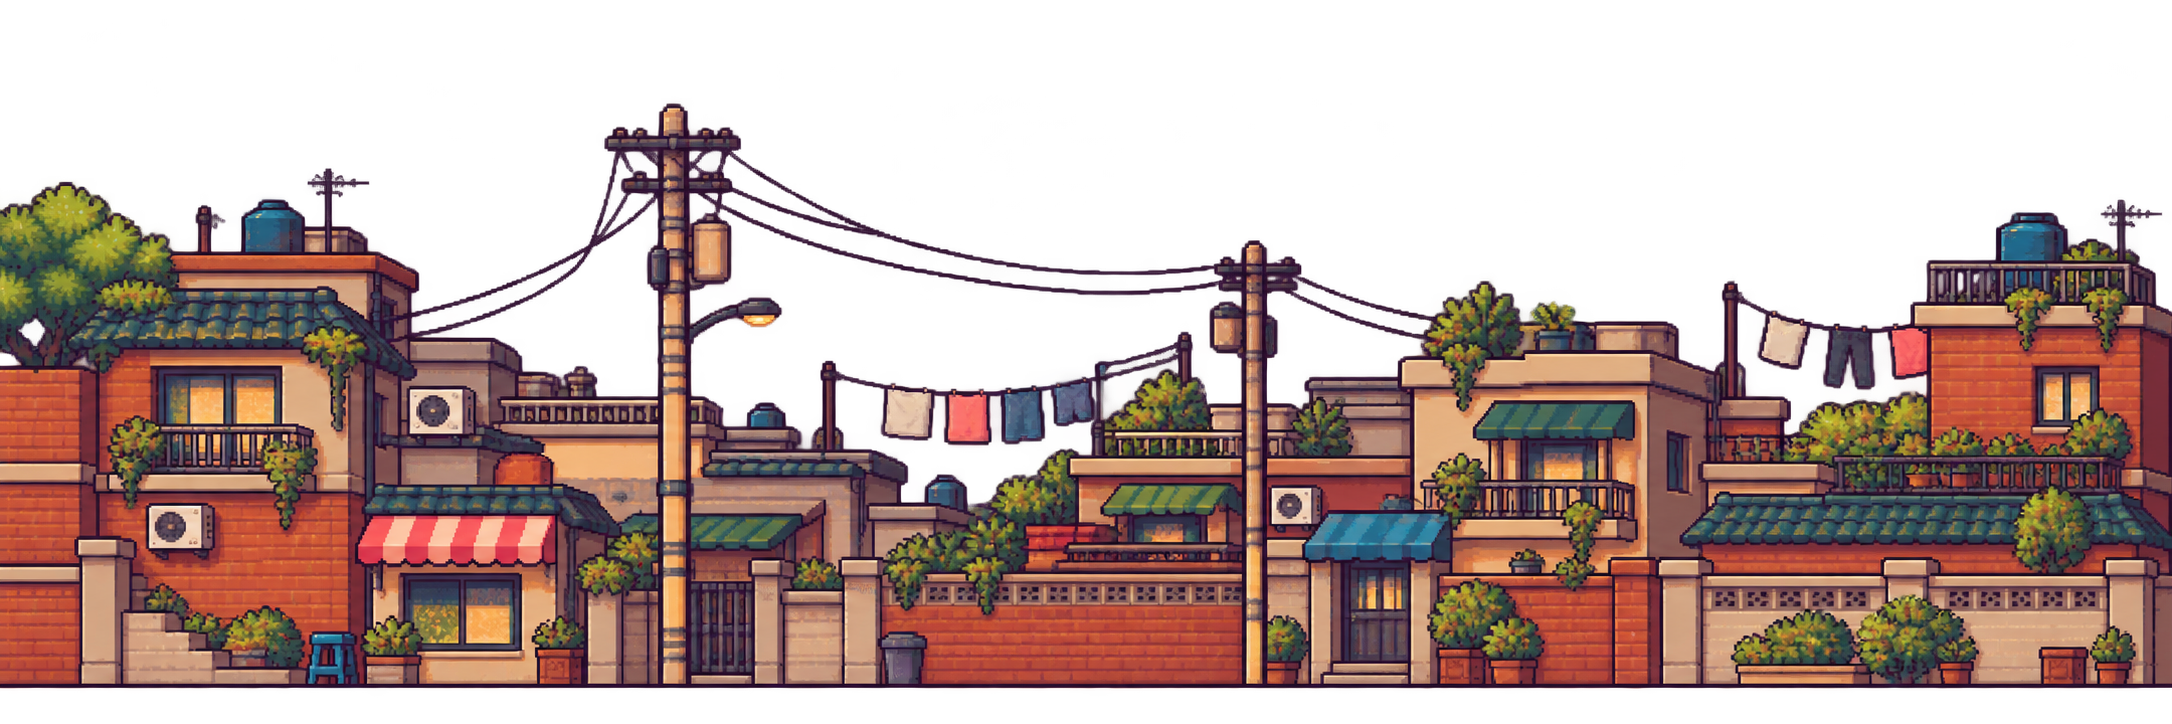
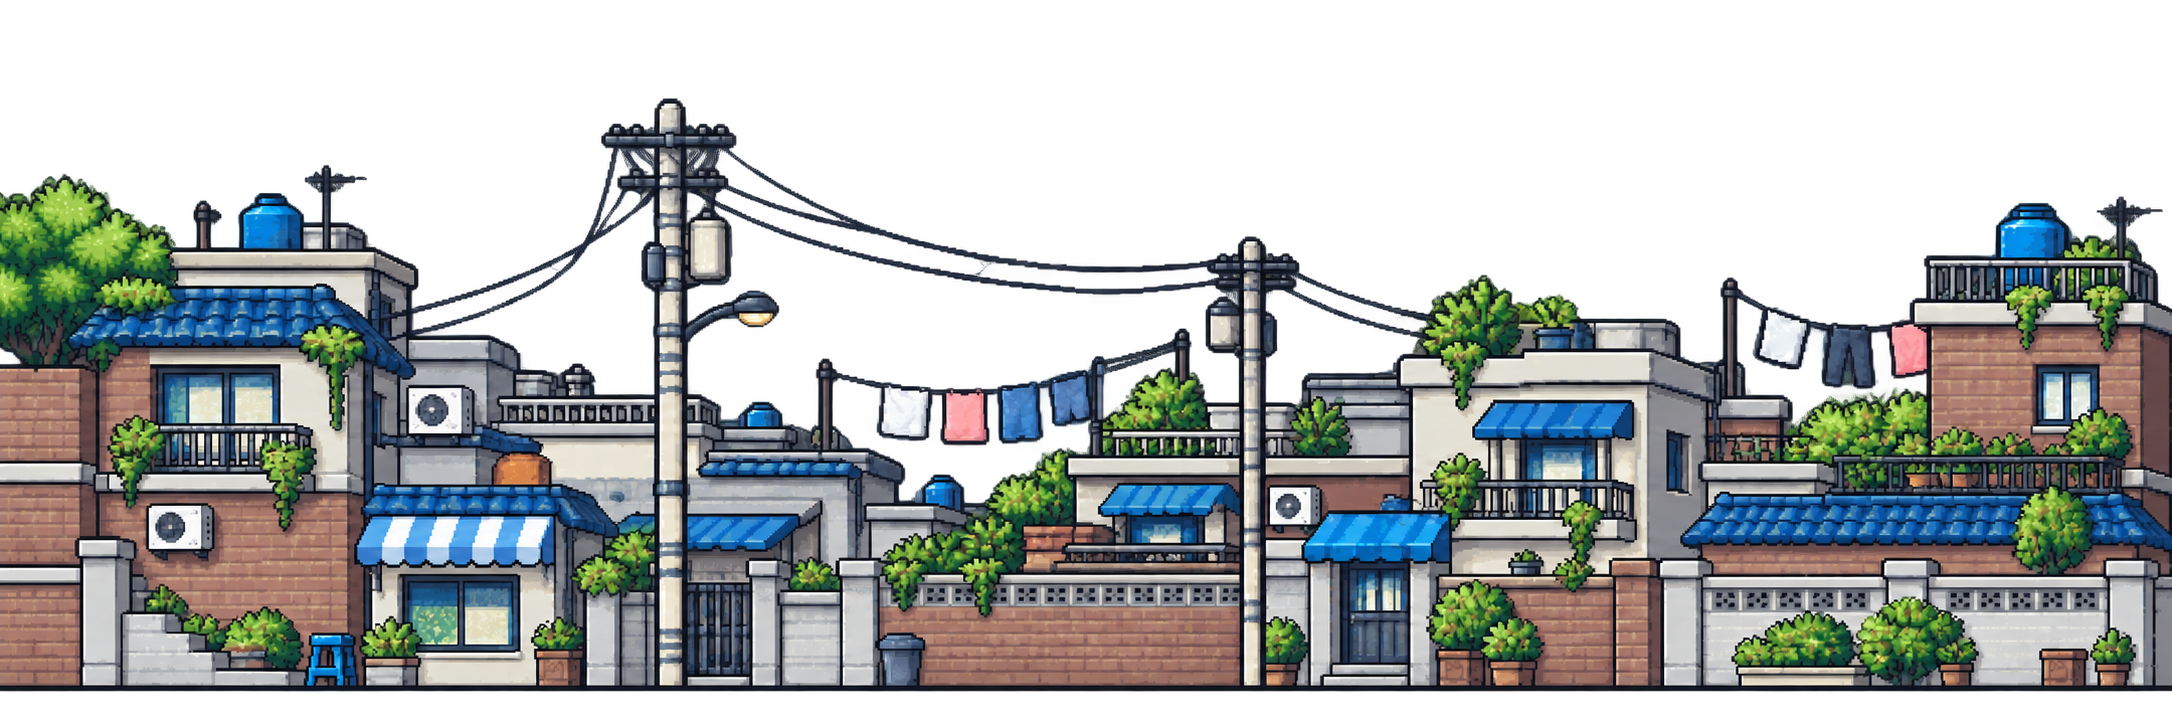
수정: 월드1 뒷골목을 화창한 낮으로 변경

diff --git a/src/game/data/worldMaps.ts b/src/game/data/worldMaps.ts
@@ -32,11 +32,11 @@ export const WORLD_MAP_THEMES: readonly WorldMapThemeDefinition[] = [
       "name-bubble",
     ],
     {
-    far: "#f2c078",
-    mid: "#d98963",
-    gameplay: "#6b4950",
-    foreground: "#3d2d3a",
-    accent: "#e85d5d",
+      far: "#9bdcf2",
+      mid: "#c8d6ca",
+      gameplay: "#68736e",
+      foreground: "#33454b",
+      accent: "#e3c95f",
     },
   ),
   createTheme("world-02", "world-02-tileset", ["swing", "slide", "seesaw", "jungle-gym"], {

diff --git a/.memory/phases/2026-09-23-legendary-rib-world-campaign/P01-world01-back-alley/phase.md b/.memory/phases/2026-09-23-legendary-rib-world-campaign/P01-world01-back-alley/phase.md
@@ -5,7 +5,7 @@
 | Task | Status | Summary | Blueprint |
 | :--- | :--- | :--- | :--- |
 | T01 | `done` | 기믹 타입·사망 효과·통제불능 상태 계약과 World 1 카탈로그 | [T01](./T01-gimmick-contract-and-catalog.md) |
-| T02 | `done` | 따뜻한 주거지 픽셀 타일셋·배경·함정 사물 에셋과 로딩, 인트로 타이틀/이름 입력 | [T02](./T02-world01-pixel-assets.md) |
+| T02 | `done` | 화창한 낮의 뒷골목 픽셀 타일셋·배경·함정 사물 에셋과 로딩, 인트로 타이틀/이름 입력 | [T02](./T02-world01-pixel-assets.md) |
 | T03 | `in_progress` | 4개 일반 Tiled 맵과 54개 이상 기믹 배치·연쇄 규칙 (사용자 디자인 검토 대기) | [T03](./T03-world01-maps-and-chains.md) |
 | T04 | `pending` | 조작 조건·통제불능·즉사 연출·가짜 체크포인트 런타임 | [T04](./T04-world01-gimmick-runtime.md) |
 | T05 | `pending` | World 1 자동 검증·수동 플레이테스트·안전구간 회귀 | [T05](./T05-world01-validation-and-playtest.md) |

diff --git a/.memory/decisions/2026-09-21-world-map-design.md b/.memory/decisions/2026-09-21-world-map-design.md
@@ -56,7 +56,7 @@
 ## D07. 월드별 시각 테마
 
 - **Chosen**: 월드마다 강하게 대비되는 색감과 조명을 사용한다.
-- **World 1**: 따뜻한 주거지 색감과 해 질 녘 그림자
+- **World 1**: 화창한 낮의 푸른 하늘, 중립적인 주거지 색감과 선명한 햇빛
 - **World 2**: 밝은 놀이공원 계열 색감과 보라색 불안 요소
 - **World 3**: 자연 녹색·갈색과 바위·흙 재질
 - **World 4**: 고철의 회색·주황 경고등과 어두운 작업장 조명
